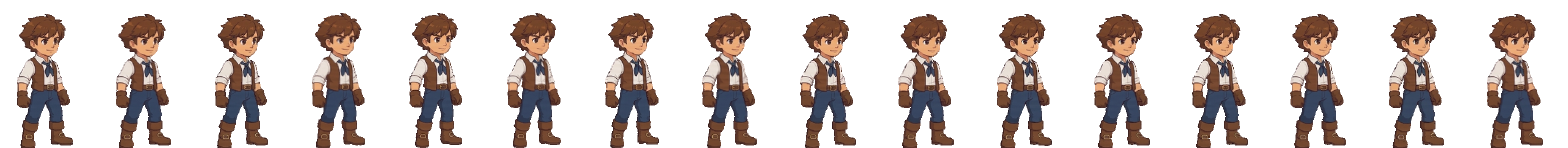
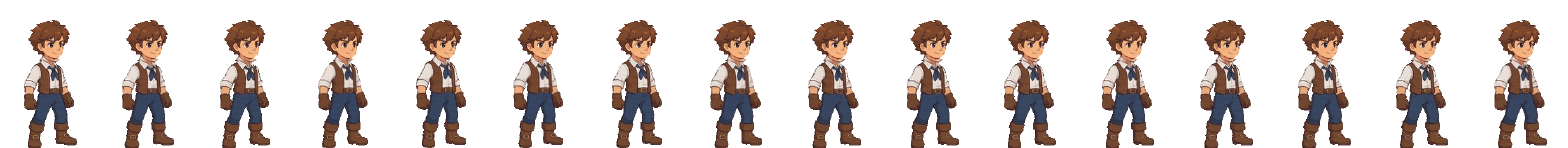
Arthur: Sprixen walk + idle for all four directions, same size, full QA
- front (down) and back (up) premium walks and breathing idles from new
  Version-1-matched base drawings; left = mirrored right
- match_scale.py: each Sprixen animation is rescaled to its approved drawing
  (Sprixen drew them 0.5-10% off; the side idle was ~10% too big)
- every strip uses one scale from its base drawing's standing height, torso-centred,
  feet on row 147, so walking/standing/turning never changes his size or position
- face locked to the approved drawing in every frame (front walk blinked/changed
  expression); back idle trimmed to frames 0-10 (foot shuffle)
- snap_feet no longer wraps rows round the cell
- build_all.sh rebuilds everything from the raw Sprixen sheets and runs
  qa_strip.py on each strip + qa_cross.py across them (all PASS)

Claude-Session: https://claude.ai/code/session_01BTTj8a1B5QVYLgtfGJQMDk

Changed region(s): [[0.0, 0.0811, 1.0, 1.0]]

diff --git a/tools/sprixen/match_scale.py b/tools/sprixen/match_scale.py
@@ -1,0 +1,54 @@
+"""Rescale a Sprixen sheet so the character is drawn at the same scale as its approved
+base sprite (Sprixen draws each animation a few % bigger or smaller).
+The scale is found by matching the base sprite's head at different sizes against the
+frames (OpenCV template matching), then every frame is resized about its feet/centre.
+usage: python3 match_scale.py <sheet.png> <base.png> <out.png> <profile side|front|back>"""
+import sys
+import cv2
+import numpy as np
+from PIL import Image
+from lock_head import PROFILES, SRC
+
+sheet = Image.open(sys.argv[1]).convert("RGBA")
+base = np.array(Image.open(sys.argv[2]).convert("RGBA"))
+prof = PROFILES[sys.argv[4]]
+n = sheet.width // SRC
+frames = [np.array(sheet.crop((i * SRC, 0, (i + 1) * SRC, SRC))) for i in range(n)]
+
+
+def gray_on_grey(rgba):
+    a = rgba[:, :, 3:4].astype(np.float32) / 255
+    g = cv2.cvtColor(rgba[:, :, :3], cv2.COLOR_RGB2GRAY).astype(np.float32)
+    return (g[:, :, None] * a + 128 * (1 - a))[:, :, 0]
+
+
+# upper body (head down to the belt): many more distinctive pixels than the head alone
+ys_b = np.where(base[:, :, 3].max(1) > 40)[0]
+belt = int(prof["HEAD_TOP"] + 0.55 * (ys_b.max() - prof["HEAD_TOP"]))
+head = base[prof["HEAD_TOP"]:belt]
+cols = np.where(head[:, :, 3].max(0) > 40)[0]
+head = head[:, cols.min():cols.max() + 1]
+tmpl0 = gray_on_grey(head)
+picks = np.linspace(0, n - 1, min(n, 6)).astype(int)
+imgs = [gray_on_grey(frames[i]) for i in picks]
+best = None
+for k in np.arange(0.85, 1.25, 0.005):
+    t = cv2.resize(tmpl0, None, fx=k, fy=k, interpolation=cv2.INTER_AREA)
+    score = np.mean([cv2.matchTemplate(im, t, cv2.TM_CCOEFF_NORMED).max() for im in imgs])
+    if best is None or score > best[0]:
+        best = (score, k)
+score, k = best
+s = 1.0 / k
+out = Image.new("RGBA", sheet.size, (0, 0, 0, 0))
+for i, f in enumerate(frames):
+    im = Image.fromarray(f)
+    ys, xs = np.where(f[:, :, 3] > 40)
+    bot, cx = ys.max(), xs.mean()
+    w2 = round(SRC * s)
+    g = im.resize((w2, w2), Image.LANCZOS)
+    px, py = round(cx - cx * s), round(bot - bot * s)
+    cell = Image.new("RGBA", (SRC, SRC), (0, 0, 0, 0))
+    cell.alpha_composite(g, (max(px, 0), max(py, 0)), (max(-px, 0), max(-py, 0)))
+    out.paste(cell, (i * SRC, 0))
+out.save(sys.argv[3])
+print(f"{sys.argv[1]}: drawn at {k:.3f}x the base sprite (match {score:.3f}); rescaled by {s:.3f}")

diff --git a/tools/sprixen/build_idle_strip.py b/tools/sprixen/build_idle_strip.py
@@ -11,7 +11,7 @@ usage: python3 build_idle_strip.py <sheet.png> <out.png> [target_height=133]
 import sys
 import numpy as np
 from PIL import Image
-from resample import downscale, defringe, snap_feet, fill_pinholes
+from resample import downscale, defringe, snap_feet, fill_pinholes, remove_specks
 
 SRC_CELL = 256
 CELL_W, CELL_H = 98, 148
@@ -35,25 +35,26 @@ def main():
     heights = np.array([b[3] - b[1] for b in boxes], float)
     ref_h = float(np.median(heights))
     # one global scale so the median frame is target_h tall
-    base_scale = target_h / ref_h
+    import os
+    base_scale = target_h / float(os.environ.get("BASE_H", ref_h))   # same rule as the walks
     strip = Image.new("RGBA", (CELL_W * n, CELL_H), (0, 0, 0, 0))
     for i, (f, b, h) in enumerate(zip(frames, boxes, heights)):
         want = ref_h + KEEP * (h - ref_h)
-        s = base_scale * want / h
+        s = base_scale if "BASE_H" in os.environ else base_scale * want / h
         x0, y0, x1, y1 = b
         part = f.crop((x0, y0, x1 + 1, y1 + 1))
         w2 = max(1, round(part.width * s))
         h2 = max(1, round(part.height * s))
-        # resample at 2x then halve for clean edges
-        part = downscale(part, w2, h2)
-        # horizontal anchor: feet span centre, so the planted feet never slide
+        part = downscale(part, w2, h2)     # premultiplied area average (tools/sprixen/resample.py)
         a = np.array(f)[:, :, 3]
-        fy = np.where(a[y1 - 8:y1 + 1] > 40)[1]
-        feet_cx = ((fy.min() + fy.max()) / 2.0 - x0) * s
+        # torso centre (same anchor as the walk strips, so stopping never shifts him sideways)
+        t0, t1 = y0 + 75, y0 + 105
+        tx = np.where(a[t0:t1] > 40)[1].mean()
+        feet_cx = (tx - x0) * s
         px = round(i * CELL_W + CENTER_X - feet_cx)
         py = FOOT_Y + 1 - h2
         strip.alpha_composite(part, (px, py))
-    strip = snap_feet(fill_pinholes(defringe(strip)))
+    strip = snap_feet(remove_specks(fill_pinholes(defringe(strip))))
     strip.save(out_path)
     print(f"{n} frames, median src height {ref_h:.0f}px, scale {base_scale:.3f} -> {out_path}")
 

diff --git a/tools/sprixen/qa_cross.py b/tools/sprixen/qa_cross.py
@@ -1,0 +1,44 @@
+"""Cross-animation check: Arthur must be the same size and in the same place in every
+animation of a direction (walk vs idle), and centred/grounded identically in all of them."""
+import sys
+import numpy as np
+from PIL import Image
+
+ART = "../../art"
+CELL_W = 98
+
+
+def measure(name):
+    a = np.array(Image.open(f"{ART}/arthur_{name}.png"))[:, :, 3]
+    W, T, C, B = [], [], [], []
+    for i in range(a.shape[1] // CELL_W):
+        m = a[:, i * CELL_W:(i + 1) * CELL_W] >= 128
+        ys, _ = np.where(m)
+        top, bot = ys.min(), ys.max()
+        hw = np.where(m[top + 18:top + 26])[1]
+        W.append(hw.max() - hw.min())                       # head width
+        r = np.where(m[top + 55:top + 65])[1]                  # chest band
+        T.append(np.percentile(r, 90) - np.percentile(r, 10))
+        C.append(np.where(m[top + 50:top + 70])[1].mean())
+        B.append(bot)
+    return np.median(W), np.median(T), np.mean(C), sorted(set(B))
+
+
+fail = False
+print("== cross-check (head width / chest width / centre / ground)")
+for d in ["side", "down", "up"]:
+    w = measure(f"{d}_walk")
+    i = measure(f"{d}_idle")
+    print(f"   {d:5s} walk head {w[0]:.0f} chest {w[1]:.0f} centre {w[2]:.1f} ground {w[3]} | "
+          f"idle head {i[0]:.0f} chest {i[1]:.0f} centre {i[2]:.1f} ground {i[3]}")
+    if abs(w[0] - i[0]) > 1.5:
+        print(f"   FAIL: {d} head width differs walk {w[0]:.0f} vs idle {i[0]:.0f}"); fail = True
+    if abs(w[1] - i[1]) / max(i[1], 1) > 0.12:   # chest width also changes with torso turn between poses
+        print(f"   FAIL: {d} body width differs walk {w[1]:.0f} vs idle {i[1]:.0f}"); fail = True
+    for x, nm in ((w, "walk"), (i, "idle")):
+        if abs(x[2] - 46) > 1.5:
+            print(f"   FAIL: {d} {nm} not centred ({x[2]:.1f})"); fail = True
+        if x[3] != [147]:
+            print(f"   FAIL: {d} {nm} feet not all on row 147: {x[3]}"); fail = True
+print("   RESULT:", "FAIL" if fail else "PASS")
+sys.exit(1 if fail else 0)

diff --git a/tools/sprixen/build_walk_strip.py b/tools/sprixen/build_walk_strip.py
@@ -14,7 +14,7 @@ usage: python3 build_walk_strip.py <sheet.png> <out.png> [target_height=133] [fp
 import sys
 import numpy as np
 from PIL import Image
-from resample import downscale, defringe, snap_feet, fill_pinholes
+from resample import downscale, defringe, snap_feet, fill_pinholes, remove_specks
 
 SRC = 256
 CELL_W, CELL_H = 98, 148
@@ -45,11 +45,15 @@ def main():
     hs = np.array([d["h"] for d in info], float)
     n = len(frames)
     smooth = np.array([(hs[i - 1] + hs[i] + hs[(i + 1) % n]) / 3 for i in range(n)])
-    base = target_h / float(np.median(hs))
+    # one scale for the whole strip, from the approved standing drawing's height (env BASE_H),
+    # so a striding frame is drawn at exactly the same size as the standing idle
+    import os
+    base_h = float(os.environ.get("BASE_H", np.median(hs)))
+    base = target_h / base_h
     strip = Image.new("RGBA", (CELL_W * n, CELL_H), (0, 0, 0, 0))
     foot_x = []   # x of the lowest (planted) foot, in game cell px, per frame
     for i, (f, d) in enumerate(zip(frames, info)):
-        s = base * smooth[i] / d["h"]
+        s = base
         w2, h2 = round(SRC * s), round(SRC * s)
         big = downscale(f, w2, h2)
         # place: torso centre -> CENTER_X, feet bottom -> FOOT_Y
@@ -68,7 +72,7 @@ def main():
         ys, xs = np.where(a)
         low = xs[ys > d["bot"] - 4]
         foot_x.append((low.min() - d["torso"]) * s)   # toe-side unused; heel edge
-    strip = snap_feet(fill_pinholes(defringe(strip)))
+    strip = snap_feet(remove_specks(fill_pinholes(defringe(strip))))
     strip.save(out)
     # planted-foot slide per frame (backwards = positive speed)
     dx = [foot_x[i] - foot_x[(i + 1) % n] for i in range(n)]

diff --git a/tools/sprixen/qa_strip.py b/tools/sprixen/qa_strip.py
@@ -75,9 +75,13 @@ def main():
         for k in range(1, nh + 1):
             sz = int((holes == k).sum())
             hy, hx = np.where(holes == k)
-            if sz >= 3 and hy.mean() < top + 0.55 * (bot - top):
-                fails.append(f"frame {i}: see-through hole {sz}px at ({int(hx.mean())},{int(hy.mean())})")
-        lab, nl = ndimage.label(m)
+            if sz <= 12:   # same limit as resample.fill_pinholes; bigger = real arm/leg gap
+                fails.append(f"frame {i}: pinhole {sz}px at ({int(hx.mean())},{int(hy.mean())})")
+            elif hy.mean() < top + 0.45 * (bot - top):
+                fails.append(f"frame {i}: see-through hole {sz}px in head/chest at ({int(hx.mean())},{int(hy.mean())})")
+            else:
+                notes.append(f"frame {i}: {sz}px gap at ({int(hx.mean())},{int(hy.mean())}) - arm/leg gap, ok")
+        lab, nl = ndimage.label(m, structure=np.ones((3, 3)))
         if nl > 1:
             sizes = ndimage.sum(m, lab, range(1, nl + 1))
             main = sizes.max()
@@ -90,8 +94,8 @@ def main():
     H = np.array(heights, float)
     C = np.array(centres)
     med_h = float(np.median(H))
-    if abs(med_h - target) > 3:
-        fails.append(f"median height {med_h:.0f}px vs target {target:.0f}px")
+    # (absolute size is checked across animations by qa_cross.py: a wide stance is
+    #  legitimately shorter than the standing drawing, so height alone isn't a size test)
     if kind == "idle" and H.max() - H.min() > 3:
         fails.append(f"idle height varies {H.min():.0f}-{H.max():.0f}px")
     if kind == "walk" and H.max() - H.min() > 8:

diff --git a/tools/sprixen/resample.py b/tools/sprixen/resample.py
@@ -50,7 +50,12 @@ def snap_feet(img, cell_w=98, foot_y=147):
         if len(rows):
             dy = foot_y - rows.max()
             if dy:
-                a[:, i * cell_w:(i + 1) * cell_w] = np.roll(c, dy, axis=0)
+                shifted = np.zeros_like(c)          # shift without wrapping rows round
+                if dy > 0:
+                    shifted[dy:] = c[:-dy]
+                else:
+                    shifted[:dy] = c[-dy:]
+                a[:, i * cell_w:(i + 1) * cell_w] = shifted
     return Image.fromarray(a)
 
 
@@ -69,3 +74,17 @@ def fill_pinholes(img, max_px=12):
                 a[hm, :3] = a[iy[hm], ix[hm], :3]
                 a[hm, 3] = 255
     return Image.fromarray(a.astype(np.uint8))
+
+
+def remove_specks(img, max_px=10):
+    """Drop tiny islands of pixels not connected to the character."""
+    from scipy import ndimage
+    a = np.array(img.convert("RGBA"))
+    m = a[:, :, 3] > 0
+    lab, n = ndimage.label(m, structure=np.ones((3, 3)))
+    if n > 1:
+        sizes = ndimage.sum(m, lab, range(1, n + 1))
+        for k, s in enumerate(sizes, 1):
+            if s <= max_px:
+                a[lab == k] = 0
+    return Image.fromarray(a)
